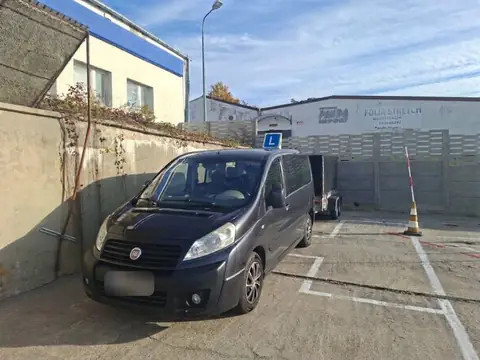
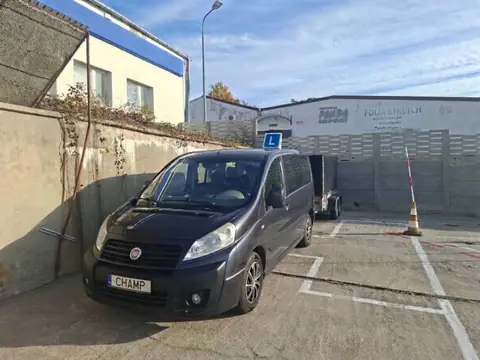
Konto do wplat za kurs (cennik, oferta, kontakt) i odkryta tablica CHAMP na Scudo

Changed region(s): [[0.2188, 0.7333, 0.3438, 0.825]]

diff --git a/index.html b/index.html
@@ -216,6 +216,7 @@
         <div><dt>Telefon</dt><dd><a class="kon-tel" href="tel:+48729993243">729 993 243</a></dd></div>
         <div><dt>Telefony do biura</dt><dd><a href="tel:+48957180335">95 718 03 35</a> (stacjonarny)<br><a href="tel:+48737164747">737 164 747</a> (komórkowy)</dd></div>
         <div><dt>E-mail</dt><dd><a href="mailto:biuro.oskchampion@wp.pl">biuro.oskchampion@wp.pl</a></dd></div>
+        <div><dt>Konto do wpłat za kurs</dt><dd class="konto">88 1020 1954 0000 7702 0429 0433</dd></div>
         <div><dt>Biuro</dt><dd>ul. Gorzowska 6, 66-460 Witnica<br>poniedziałek - piątek 10:00-17:00</dd></div>
         <div><dt>Plac manewrowy</dt><dd>ul. Kostrzyńska 12, 66-400 Gorzów Wielkopolski</dd></div>
         <div><dt>Facebook</dt><dd><a href="https://www.facebook.com/p/Nauka-Jazdy-Champion-Witnica-61584649396147/" target="_blank" rel="noopener">Nauka Jazdy Champion Witnica</a></dd></div>

diff --git a/kontakt/index.html b/kontakt/index.html
@@ -73,6 +73,7 @@
         <div><dt>Telefon</dt><dd><a class="kon-tel" href="tel:+48729993243">729 993 243</a></dd></div>
         <div><dt>Telefony do biura</dt><dd><a href="tel:+48957180335">95 718 03 35</a> (stacjonarny)<br><a href="tel:+48737164747">737 164 747</a> (komórkowy)</dd></div>
         <div><dt>E-mail</dt><dd><a href="mailto:biuro.oskchampion@wp.pl">biuro.oskchampion@wp.pl</a></dd></div>
+        <div><dt>Konto do wpłat za kurs</dt><dd class="konto">88 1020 1954 0000 7702 0429 0433</dd></div>
         <div><dt>Biuro</dt><dd>ul. Gorzowska 6, 66-460 Witnica<br>poniedziałek - piątek 10:00-17:00</dd></div>
         <div><dt>Plac manewrowy</dt><dd>ul. Kostrzyńska 12, 66-400 Gorzów Wielkopolski</dd></div>
         <div><dt>Facebook</dt><dd><a href="https://www.facebook.com/p/Nauka-Jazdy-Champion-Witnica-61584649396147/" target="_blank" rel="noopener">Nauka Jazdy Champion Witnica</a></dd></div>

diff --git a/oferta/index.html b/oferta/index.html
@@ -143,6 +143,7 @@
         <li>Podręczniki do nauki testów są w cenie kursu kat. B.</li>
         <li>Dodatkowa godzina jazdy kat. B: 150 zł dla kursantów OSK Champion, 160 zł dla kursantów z innych ośrodków.</li>
         <li>Honorujemy Kartę Dużej Rodziny.</li>
+        <li>Wpłaty za kurs można robić w biurze albo przelewem na konto <b class="konto">88 1020 1954 0000 7702 0429 0433</b> (w tytule imię i nazwisko kursanta oraz kategoria).</li>
         <li>Plac manewrowy przy ul. Kostrzyńskiej 12 w Gorzowie Wielkopolskim jest utwardzony, oświetlony i dostępny tylko dla naszych kursantów.</li>
       </ul>
       <a class="dalej" href="../cennik/">Pełny cennik</a>

diff --git a/cennik/index.html b/cennik/index.html
@@ -100,6 +100,7 @@
     </div>
     <div class="cen-dol">
       <p class="kdr kdr-jasny"><img src="../img/kdr.webp" width="240" height="151" alt="" loading="lazy"> Honorujemy Kartę Dużej Rodziny.</p>
+      <p class="konto-p">Wpłaty za kurs: w biurze albo przelewem na konto <b class="konto">88 1020 1954 0000 7702 0429 0433</b> (w tytule imię i nazwisko kursanta oraz kategoria).</p>
       <p>Opis kursów, pojazdów i liczby godzin znajdziesz na stronie <a href="../oferta/">Kursy</a>.</p>
     </div>
   </div>

diff --git a/style.css b/style.css
@@ -366,3 +366,4 @@ figure{margin:0}
   html{scroll-behavior:auto}
   .kafel,.mob,.ham span{transition:none}
 }
+.konto{white-space:nowrap;font-variant-numeric:tabular-nums}.konto-p{margin-top:12px}

diff --git a/_zrodla/build.py b/_zrodla/build.py
@@ -24,6 +24,8 @@ TEL = ('729 993 243', 'tel:+48729993243')
 TEL_BIURO = ('95 718 03 35', 'tel:+48957180335')
 TEL_BIURO_KOM = ('737 164 747', 'tel:+48737164747')
 MAIL = 'biuro.oskchampion@wp.pl'
+# 28.10: konto do wplat za kurs (od klienta) - w cenniku i w kontakcie, jak u wiekszosci OSK
+KONTO = '88 1020 1954 0000 7702 0429 0433'
 FB = 'https://www.facebook.com/p/Nauka-Jazdy-Champion-Witnica-61584649396147/'
 GODZINY = 'poniedziałek - piątek 10:00-17:00'
 BIURO = (52.6732, 14.8977)
@@ -341,6 +343,7 @@ def dane_kontaktowe(h='h2'):
         <div><dt>Telefon</dt><dd><a class="kon-tel" href="{TEL[1]}">{TEL[0]}</a></dd></div>
         <div><dt>Telefony do biura</dt><dd><a href="{TEL_BIURO[1]}">{TEL_BIURO[0]}</a> (stacjonarny)<br><a href="{TEL_BIURO_KOM[1]}">{TEL_BIURO_KOM[0]}</a> (komórkowy)</dd></div>
         <div><dt>E-mail</dt><dd><a href="mailto:{MAIL}">{MAIL}</a></dd></div>
+        <div><dt>Konto do wpłat za kurs</dt><dd class="konto">{KONTO}</dd></div>
         <div><dt>Biuro</dt><dd>ul. Gorzowska 6, 66-460 Witnica<br>{GODZINY}</dd></div>
         <div><dt>Plac manewrowy</dt><dd>ul. Kostrzyńska 12, 66-400 Gorzów Wielkopolski</dd></div>
         <div><dt>Facebook</dt><dd><a href="{FB}" target="_blank" rel="noopener">Nauka Jazdy Champion Witnica</a></dd></div>
@@ -532,6 +535,7 @@ def oferta():
         <li>Podręczniki do nauki testów są w cenie kursu kat. B.</li>
         <li>Dodatkowa godzina jazdy kat. B: 150 zł dla kursantów OSK Champion, 160 zł dla kursantów z innych ośrodków.</li>
         <li>Honorujemy Kartę Dużej Rodziny.</li>
+        <li>Wpłaty za kurs można robić w biurze albo przelewem na konto <b class="konto">{KONTO}</b> (w tytule imię i nazwisko kursanta oraz kategoria).</li>
         <li>Plac manewrowy przy ul. Kostrzyńskiej 12 w Gorzowie Wielkopolskim jest utwardzony, oświetlony i dostępny tylko dla naszych kursantów.</li>
       </ul>
       <a class="dalej" href="{R}cennik/">Pełny cennik</a>
@@ -583,6 +587,7 @@ def cennik():
 {karty}    </div>
     <div class="cen-dol">
       <p class="kdr kdr-jasny"><img src="{R}img/kdr.webp" width="240" height="151" alt="" loading="lazy"> Honorujemy Kartę Dużej Rodziny.</p>
+      <p class="konto-p">Wpłaty za kurs: w biurze albo przelewem na konto <b class="konto">{KONTO}</b> (w tytule imię i nazwisko kursanta oraz kategoria).</p>
       <p>Opis kursów, pojazdów i liczby godzin znajdziesz na stronie <a href="{R}oferta/">Kursy</a>.</p>
     </div>
   </div>

diff --git a/_zrodla/zdjecia.py b/_zrodla/zdjecia.py
@@ -71,7 +71,8 @@ zapisz(proporcja(p1, 4 / 3), 'kat-ce', [480, 800, 1200])
 
 # 2. Fiat Scudo z przyczepa (B+E), 1195x896
 p2 = otworz(os.path.join(NOWE, '1793176657104.jpg'))
-zamaz(p2, [(260, 675, 384, 736)])
+# 28.10: tablica CHAMP na Scudo to wizytowka szkoly (klient sam ja tak przygotowal) - NIE zamazujemy
+# zamaz(p2, [(260, 675, 384, 736)])
 zapisz(p2, 'kat-be', [480, 800, 1195])
 
 # 3. plac - szeroki widok, 4000x3000
